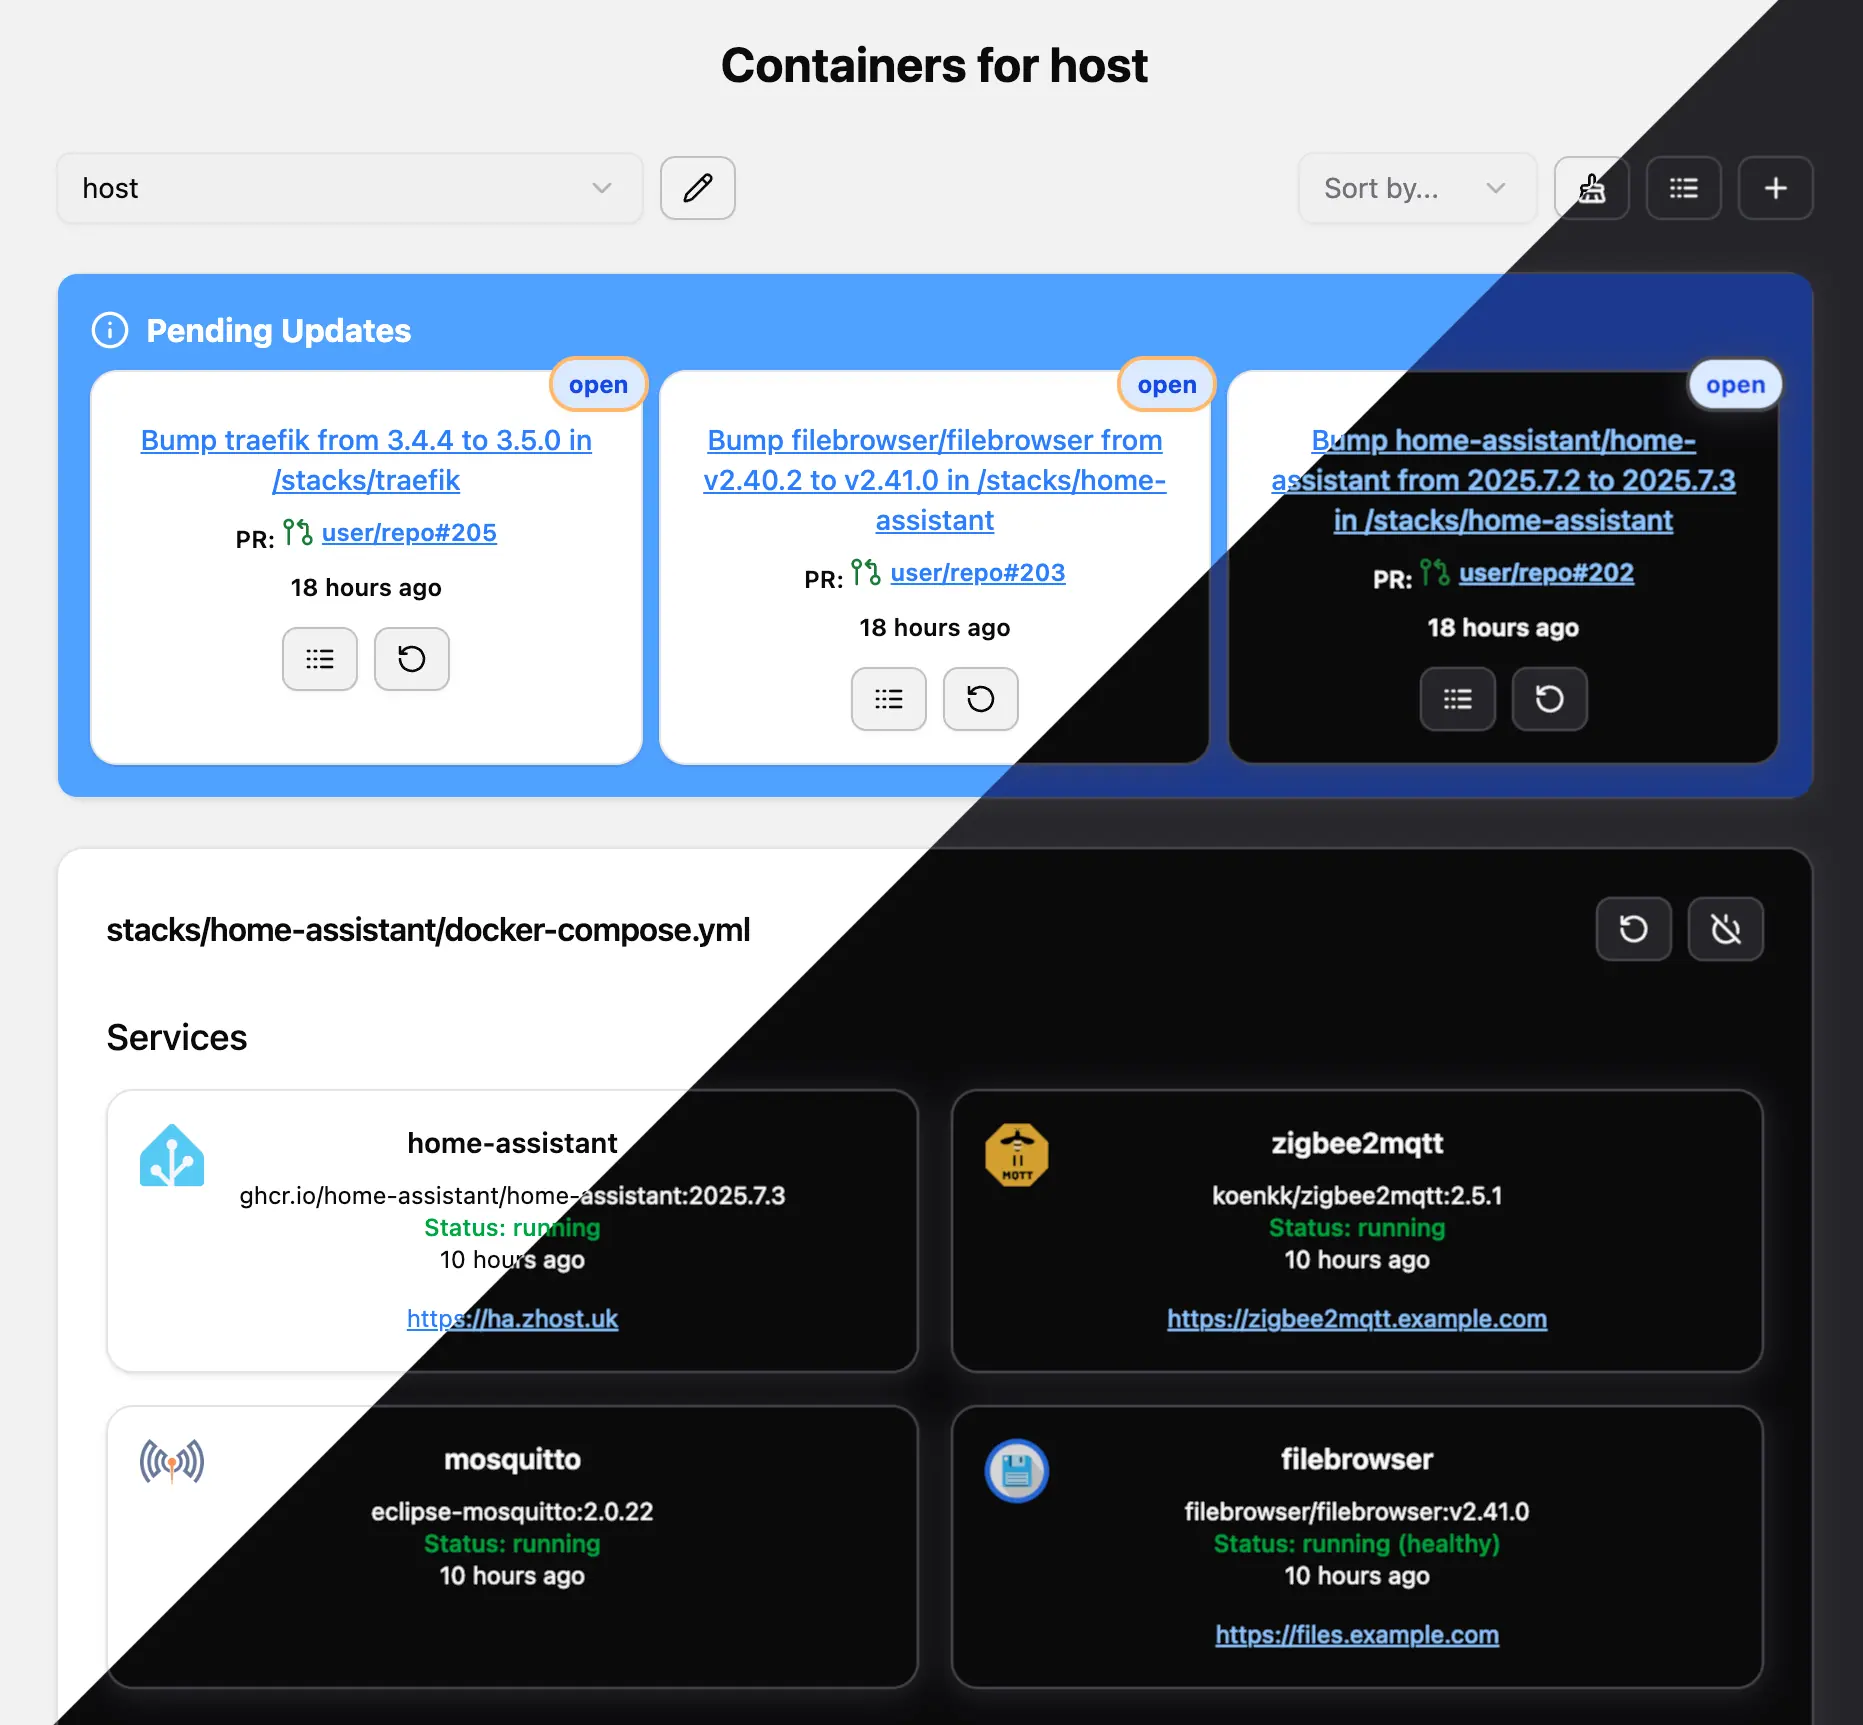
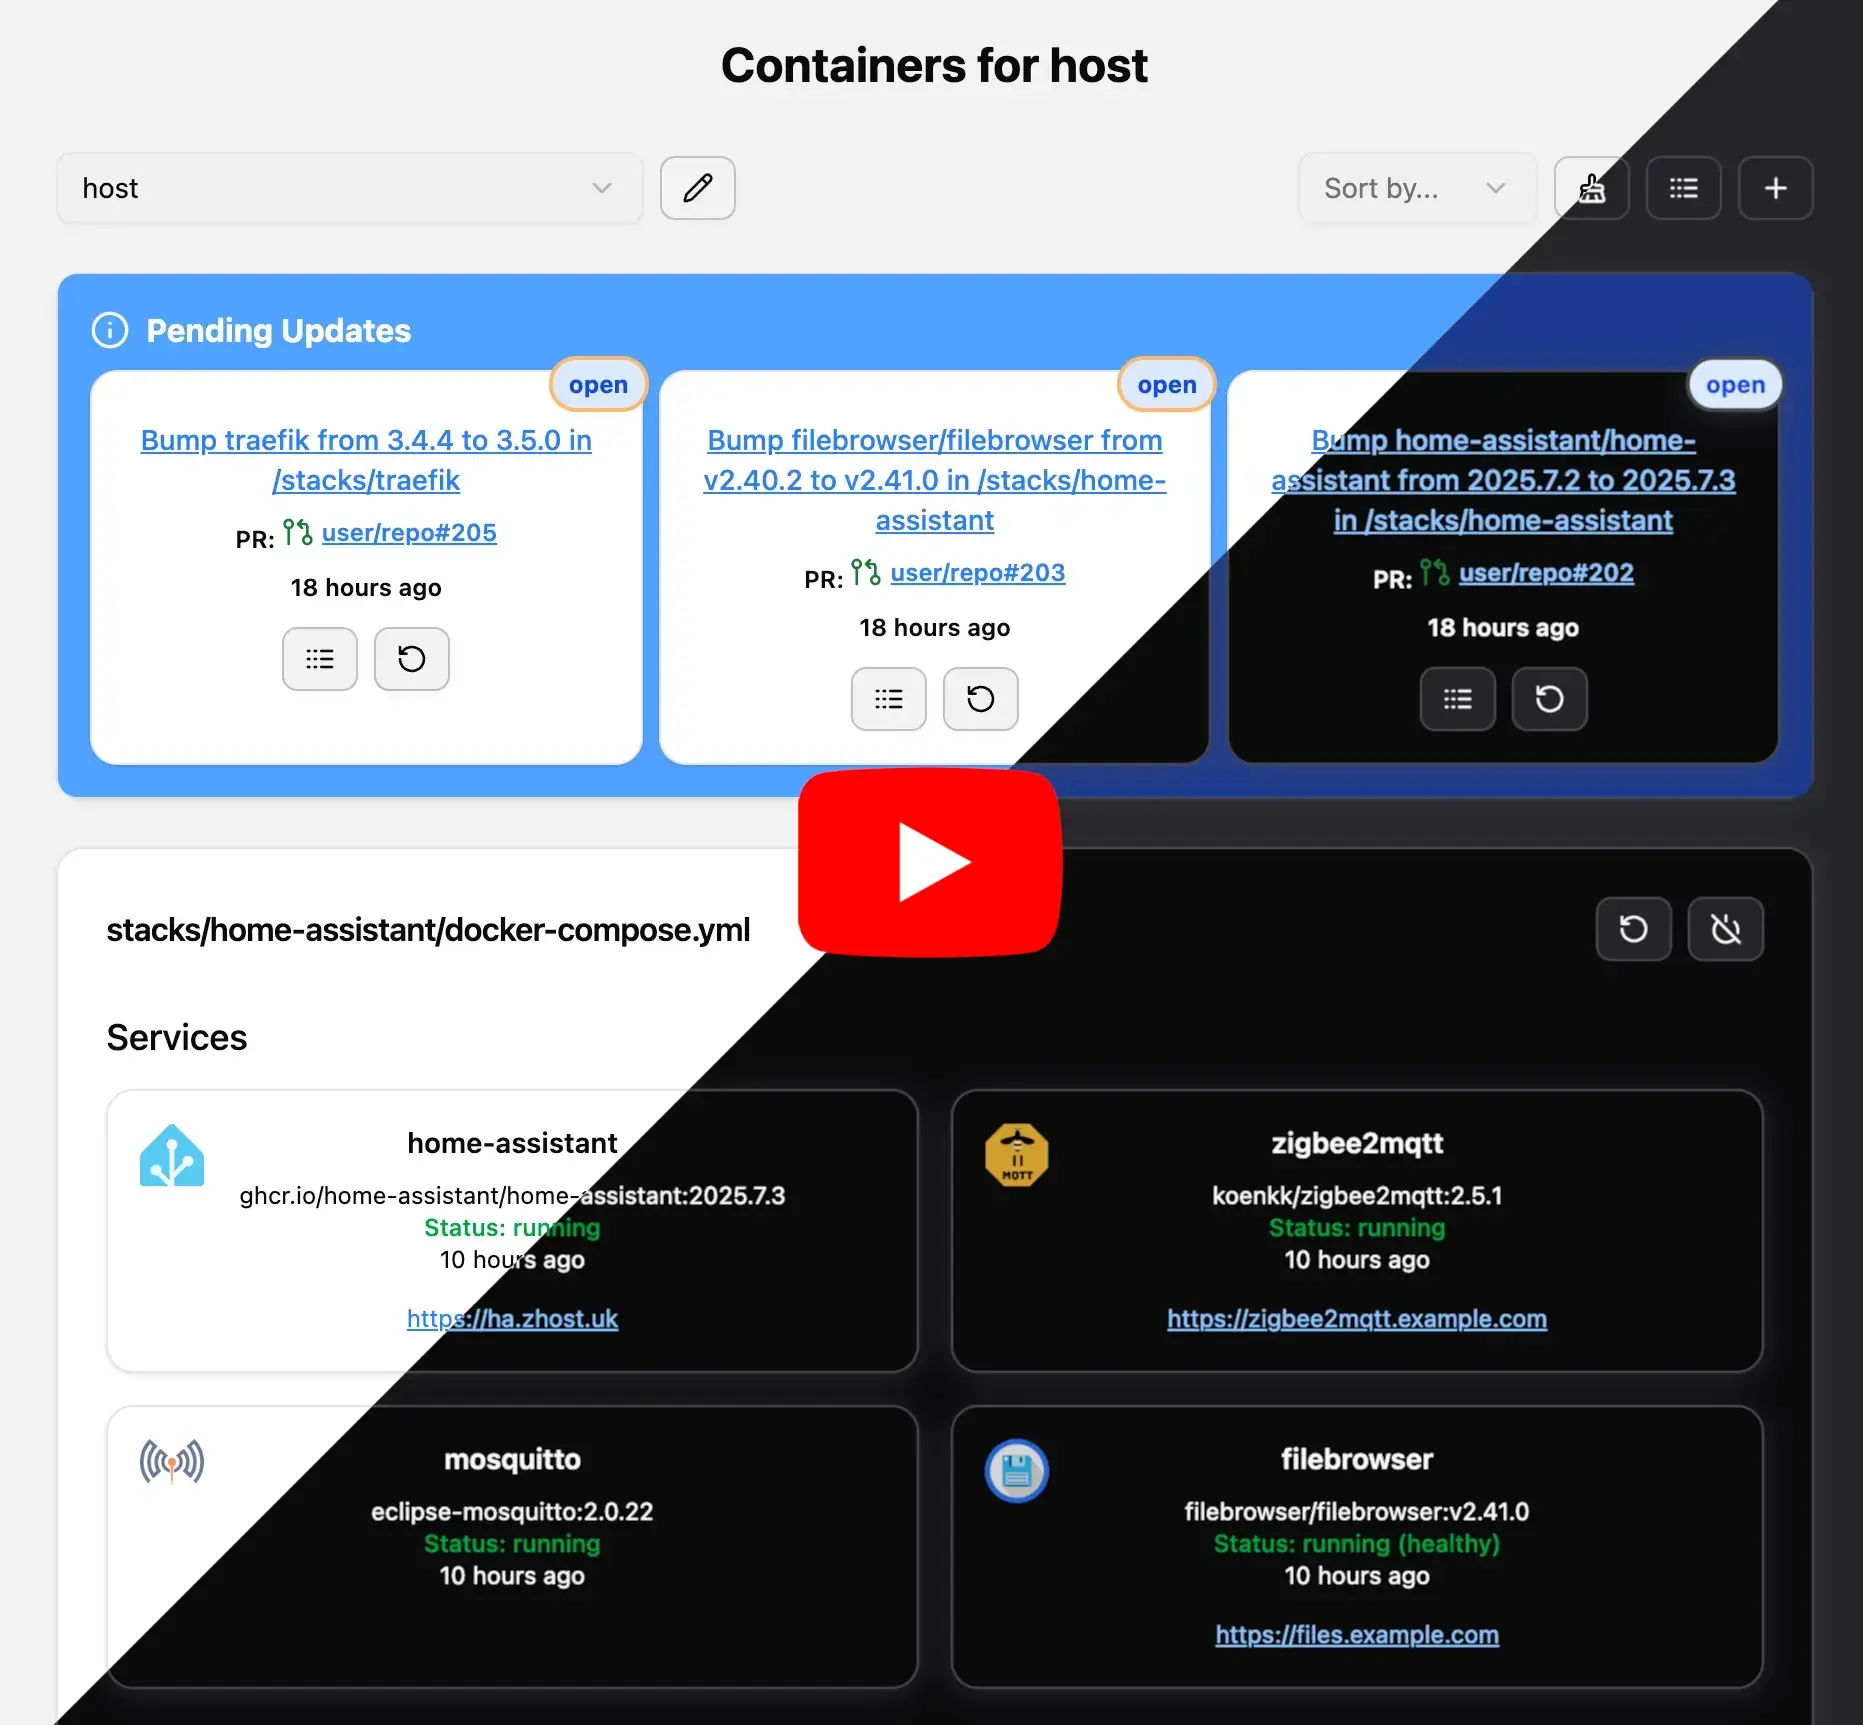
Add link to walkthrough video

Changed region(s): [[0.4047, 0.4301, 0.5915, 0.553], [0.3736, 0.2458, 0.6227, 0.338], [0.0623, 0.2458, 0.3113, 0.338]]

diff --git a/README.md b/README.md
@@ -29,7 +29,7 @@ It provides a unified interface for managing containerized applications, and aut
 
 ## Screenshot
 
-![screenshot](./screenshot.webp)
+[![screenshot](./screenshot.webp)](https://youtu.be/BXh_dP7b07k)
 
 ## Installation
 
